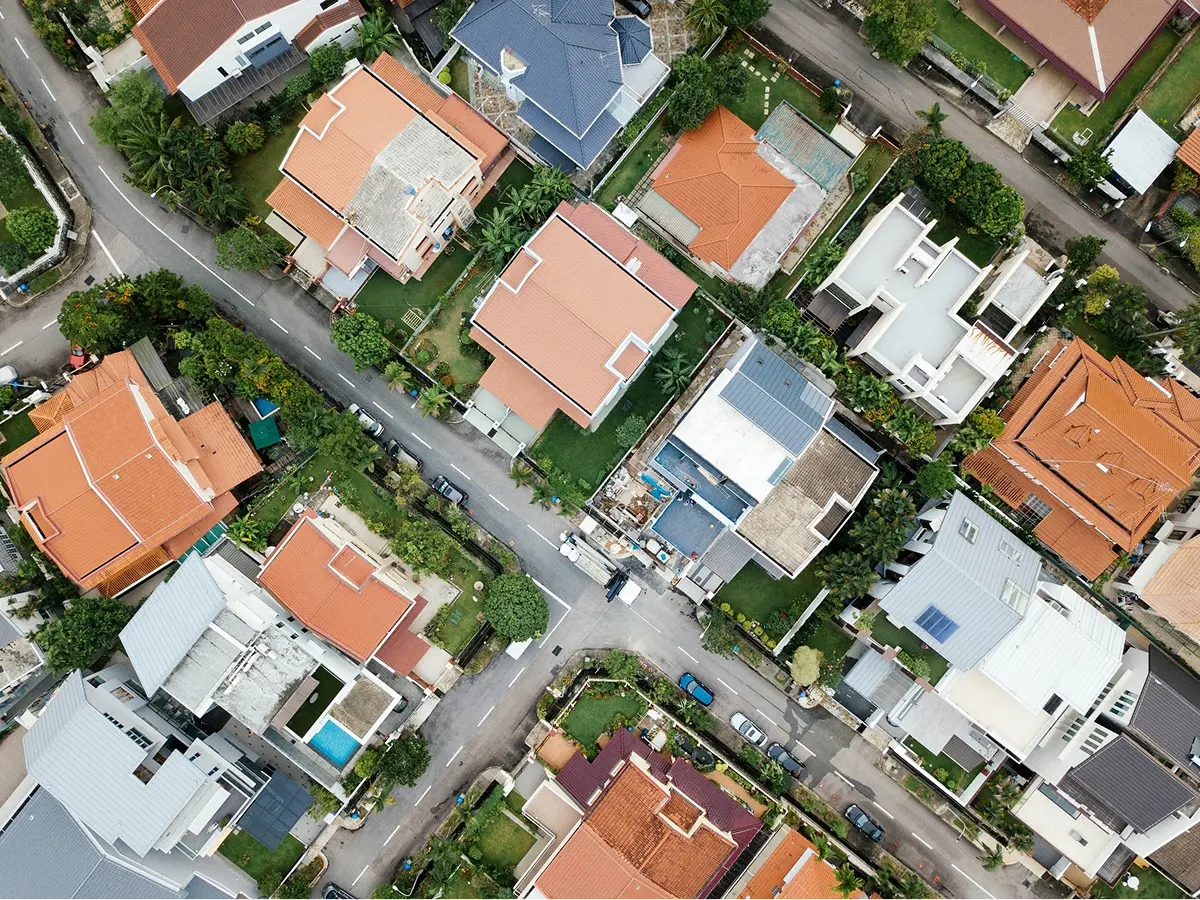
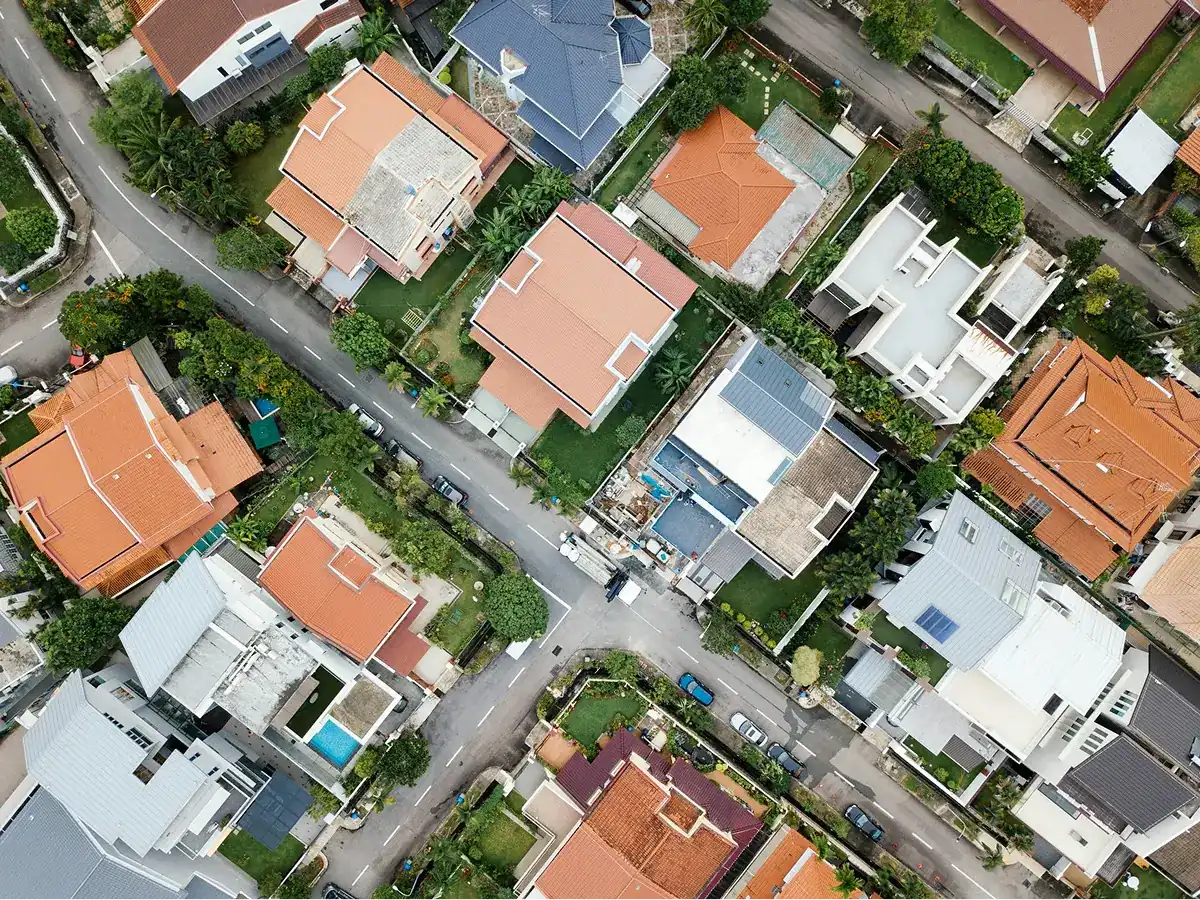
perf: recompress home images and load the hero photo as a high-priority img

Changed region(s): [[0.5242, 0.5289, 0.555, 0.56]]

diff --git a/src/pages/home/components/hero.tsx b/src/pages/home/components/hero.tsx
@@ -1,17 +1,22 @@
+import { CSSProperties } from 'react';
+
 import { FlexBox } from '@/common/components';
 import { CTAButton, LoginButton } from '@/common/components/buttons';
 import { PALETTE_COLORS } from '@/config/theme';
 import { Box, Divider, SxProps, Typography } from '@mui/material';
 
 const HOME_SX: SxProps = {
+  position: 'relative',
   width: '100%',
   minHeight: '100vh',
-  backgroundSize: 'cover',
-  backgroundPosition: 'center',
-  backgroundImage: 'url(/assets/images/background.webp)',
 };
 
+// The hero photo is the page's LCP element: a real <img> (rather than a CSS background) is in the prerendered HTML,
+// so the browser starts downloading it right away, and phones get the smaller version.
+const HERO_IMAGE_STYLE: CSSProperties = { position: 'absolute', inset: 0, width: '100%', height: '100%', objectFit: 'cover', objectPosition: 'center' };
+
 const HOME_CONTAINER_SX: SxProps = {
+  position: 'relative',
   p: { xs: 4, md: 10, xxl: 15 },
   width: '100%',
   bgcolor: 'red',
@@ -24,6 +29,17 @@ const HOME_CONTAINER_SX: SxProps = {
 export const Hero = () => {
   return (
     <Box id="home" component="header" sx={HOME_SX}>
+      <img
+        src="/assets/images/background.webp"
+        srcSet="/assets/images/background-768.webp 768w, /assets/images/background.webp 1200w"
+        sizes="100vw"
+        width={1200}
+        height={900}
+        alt=""
+        // React 18 doesn't know the camelCase prop yet; pass the HTML attribute as is.
+        {...{ fetchpriority: 'high' }}
+        style={HERO_IMAGE_STYLE}
+      />
       <FlexBox sx={{ ...HOME_CONTAINER_SX, justifyContent: 'center' }}>
         <FlexBox sx={{ flexDirection: 'column', mx: 'auto', gap: 4, maxWidth: { sm: '800px', xl: '1000px', xxl: '1200px' } }}>
           <Typography
